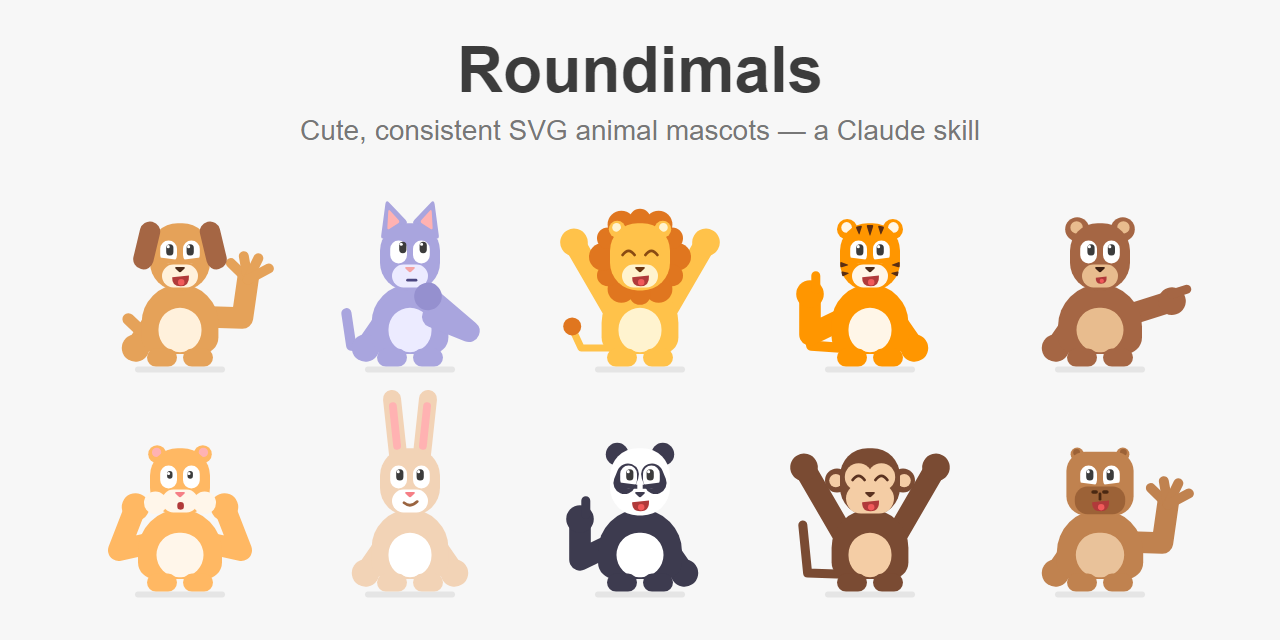
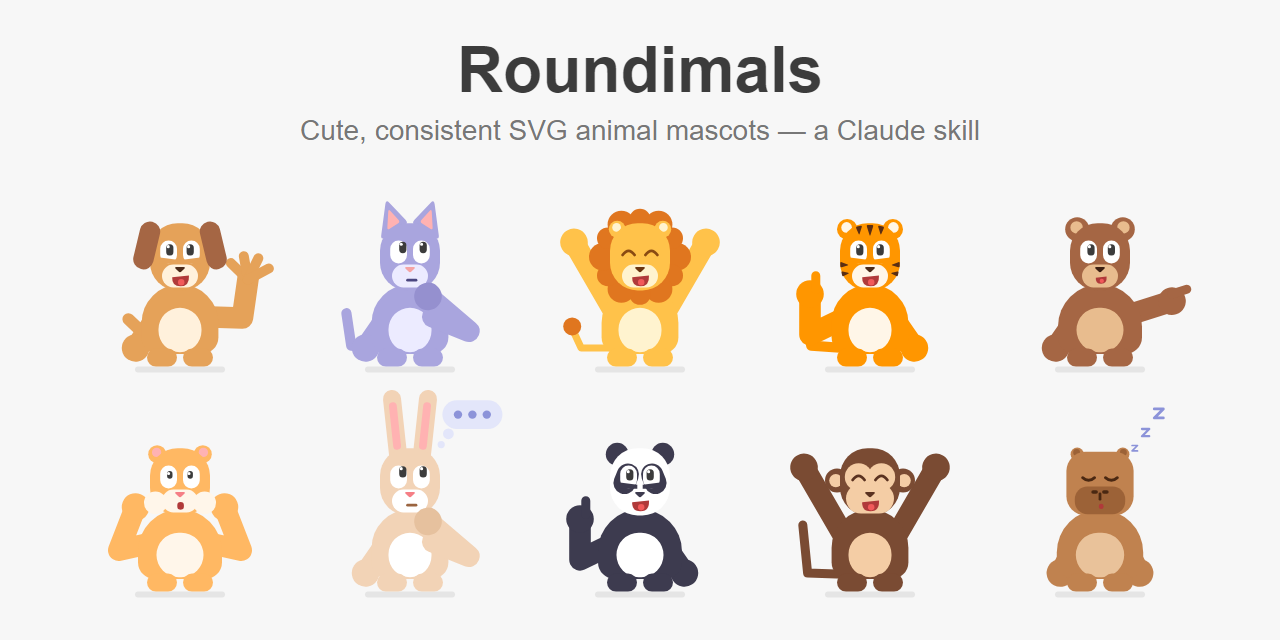
Version 0.4.0: Posen Schlafen und Warten, Bilder aktualisiert

diff --git a/CHANGELOG.md b/CHANGELOG.md
@@ -4,10 +4,16 @@ All notable changes to this project are documented here.
 The format is based on [Keep a Changelog](https://keepachangelog.com/en/1.1.0/).
 
 ## [Unreleased]
+
+## [0.4.0] – 2026-10-28
 ### Added
 - Two new poses: `sleeping` (empty states, with floating Z's) and `waiting` (a thought bubble with three dots, for loading screens), plus a `sleeping` avatar expression. Ten poses and eight avatar expressions in total.
+- `zzz()` and `thoughtDots()` in the kit, with a count for animating them; `custom()` takes `held` and `over` extras.
 - App mockups in the README (quiz host, lesson complete, chat avatars) from `scripts/make-mockups.mjs`.
-- `scripts/make-video.mjs`: frames for a 13-second square promo video (cast, poses, colors, end card).
+- `scripts/make-video.mjs`: frames for a 14-second square promo video (cast, poses, colors, end card).
+
+### Changed
+- Title GIF, still image, social preview and avatar row show the new poses: a waiting rabbit and a sleeping capybara.
 
 ## [0.3.0] – 2026-10-28
 ### Added

diff --git a/roundimals/SKILL.md b/roundimals/SKILL.md
@@ -102,7 +102,7 @@ Each animal is told by its signature shapes. Keep them big and few.
   | surprised | Smaller pupils | Small dark "o" pill |
   | sad | Lid slanting down toward the outside, pupils down, a tear | Downturned stroke |
   | talking | Open | Small open mouth |
-  | sleeping | Closed: relaxed downward arcs (light on a dark eye patch) | Small round open mouth; two or three floating Z's |
+  | sleeping | Closed: relaxed downward arcs (light on a dark eye patch) | Small round open mouth; three floating Z's on the full body (none on a round avatar, the crop would cut them) |
 
 - **A big smile is an open mouth.** People in this style smile with a white tooth shape; on an animal it sits on the light muzzle and disappears.
 - **Closed eyes and mouth strokes** use the feature color (a dark tone of the fur), never black.

diff --git a/README.md b/README.md
@@ -6,7 +6,7 @@
 
 ![Release](https://img.shields.io/github/v/release/rofldark/roundimals) ![Dependencies](https://img.shields.io/badge/dependencies-none-blue) ![License](https://img.shields.io/badge/license-MIT-lightgrey)
 
-<img width="100%" alt="A dog, cat, lion, tiger, bear, hamster, rabbit, panda, monkey and capybara waving, cheering, hopping and blinking" src="example.gif" />
+<img width="100%" alt="A dog, cat, lion, tiger, bear, hamster, rabbit, panda, monkey and capybara waving, cheering, hopping, waiting and sleeping" src="example.gif" />
 
 **[Try it in your browser](https://rofldark.github.io/roundimals/)** — pick an animal, a pose and a color, download SVG or PNG. No install.
 
